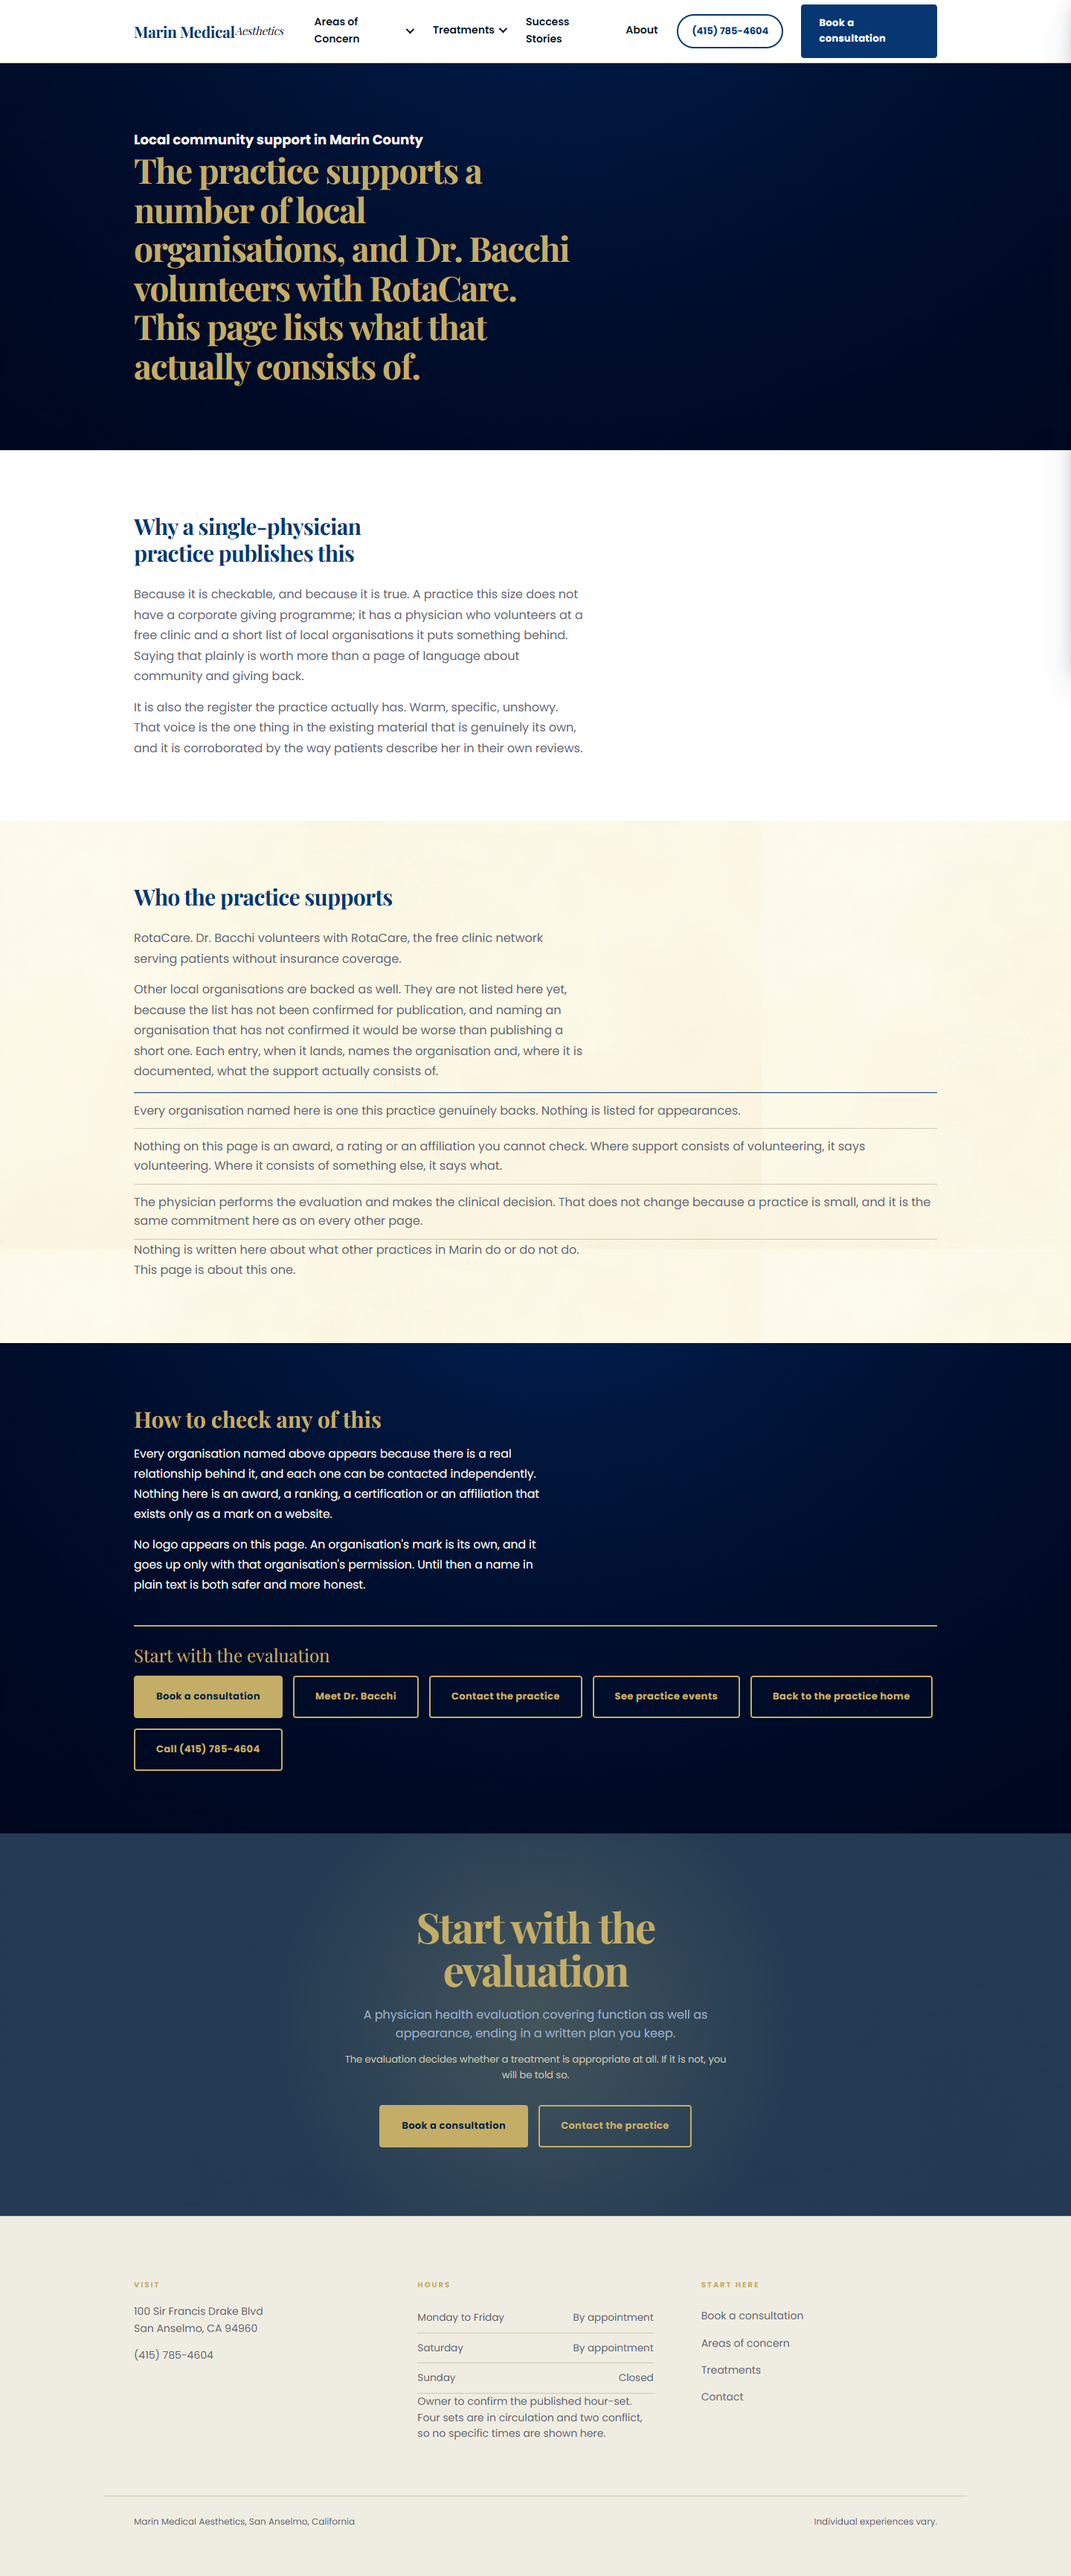
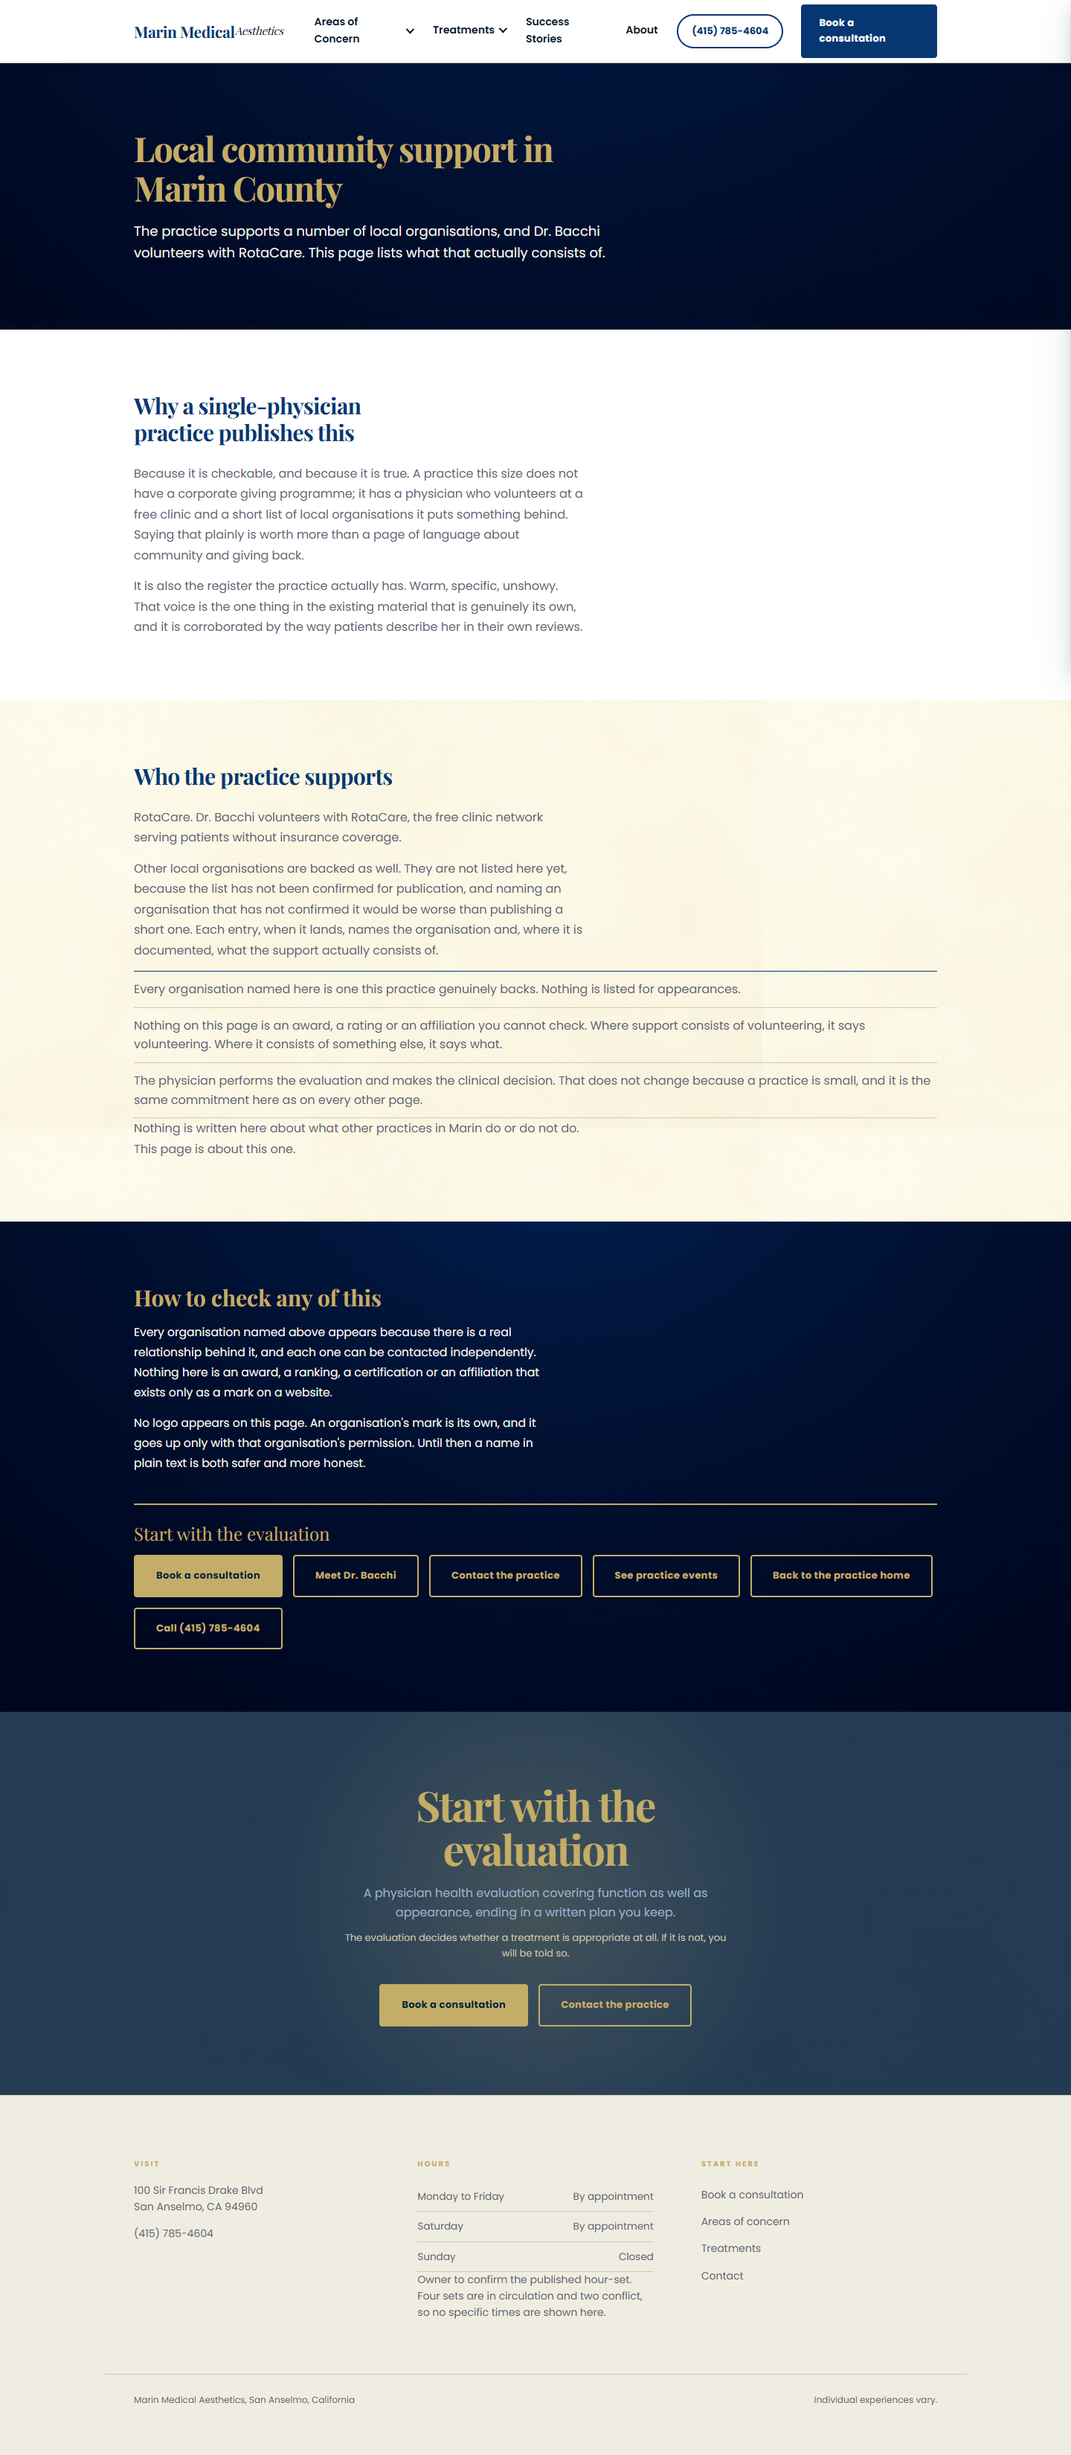
Fix inverted heading hierarchy on local-community-support
The hero had mm-founder__act and mm-founder__by swapped: the <h1> carried
the 18px byline style while the <p> beneath it carried the 46px display
style, so the page's main heading rendered smaller than its own standfirst.
about.html uses the same shell correctly; this now matches it.

Caught by rverify, which flagged the page UNSTYLED at mobile (h1=18px).
Verified after the fix by rverify (PASS at desktop/laptop/tablet/mobile)
and by reading the rendered hero.

Also drops ap.txt, a scratch file committed by accident.

Claude-Session: https://claude.ai/code/session_013WDMRvZYoR4Pamimx5pPdW

diff --git a/pages/local-community-support.html b/pages/local-community-support.html
@@ -84,8 +84,8 @@
   <div class="container">
     <div class="row">
       <div class="col">
-        <h1 class="mm-founder__by">Local community support in Marin County</h1>
-        <p class="mm-founder__act">The practice supports a number of local organisations, and Dr.
+        <h1 class="mm-founder__act">Local community support in Marin County</h1>
+        <p class="mm-founder__by">The practice supports a number of local organisations, and Dr.
           Bacchi volunteers with RotaCare. This page lists what that actually consists of.</p>
       </div>
     </div>

diff --git a/pages/local-community-support.content.html b/pages/local-community-support.content.html
@@ -5,8 +5,8 @@
   <div class="container">
     <div class="row">
       <div class="col">
-        <h1 class="mm-founder__by">Local community support in Marin County</h1>
-        <p class="mm-founder__act">The practice supports a number of local organisations, and Dr.
+        <h1 class="mm-founder__act">Local community support in Marin County</h1>
+        <p class="mm-founder__by">The practice supports a number of local organisations, and Dr.
           Bacchi volunteers with RotaCare. This page lists what that actually consists of.</p>
       </div>
     </div>
